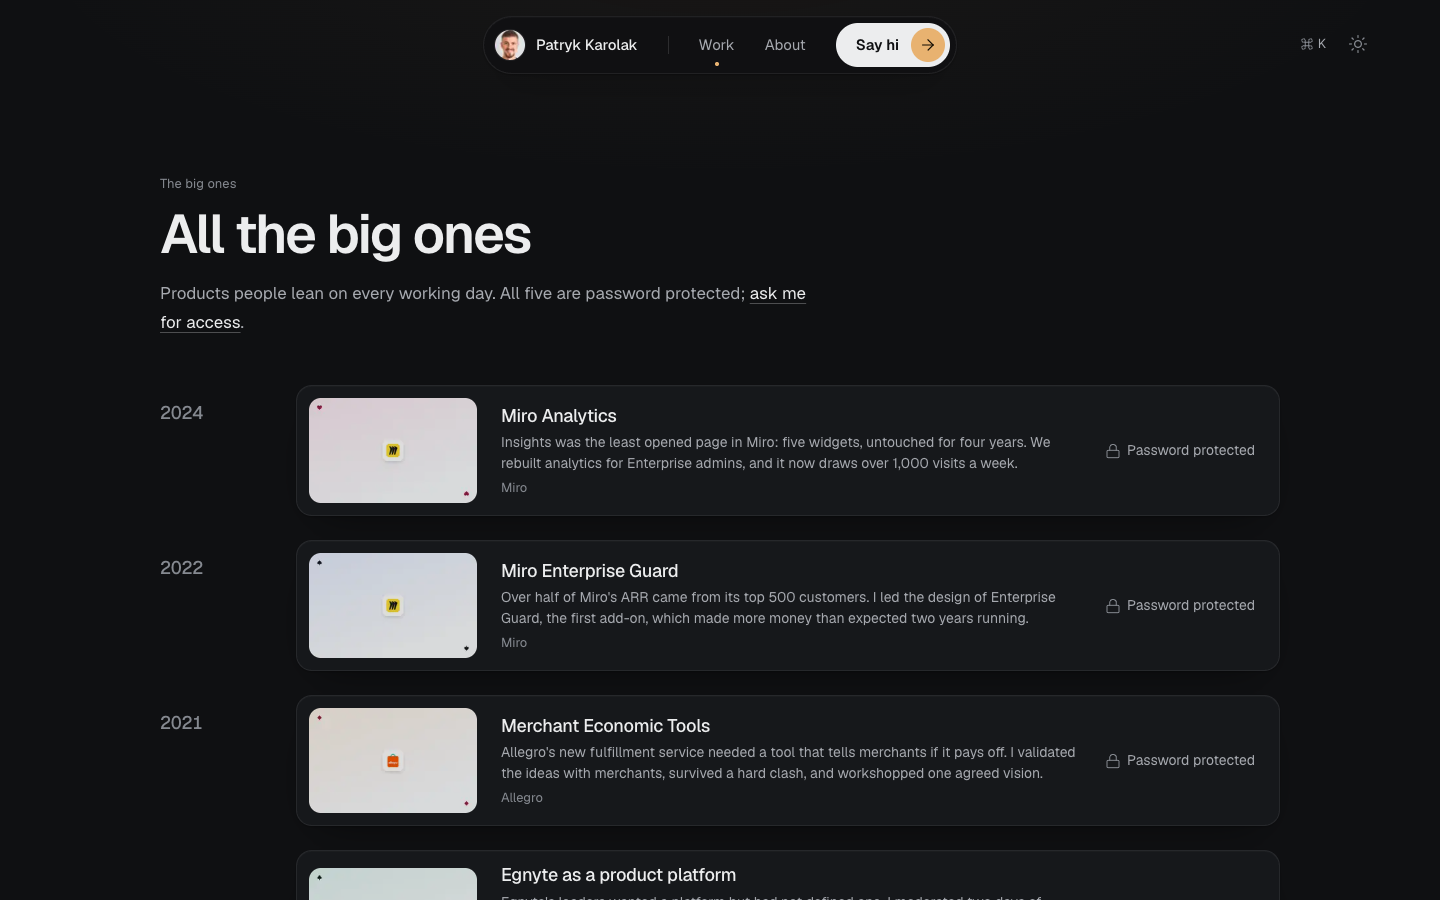
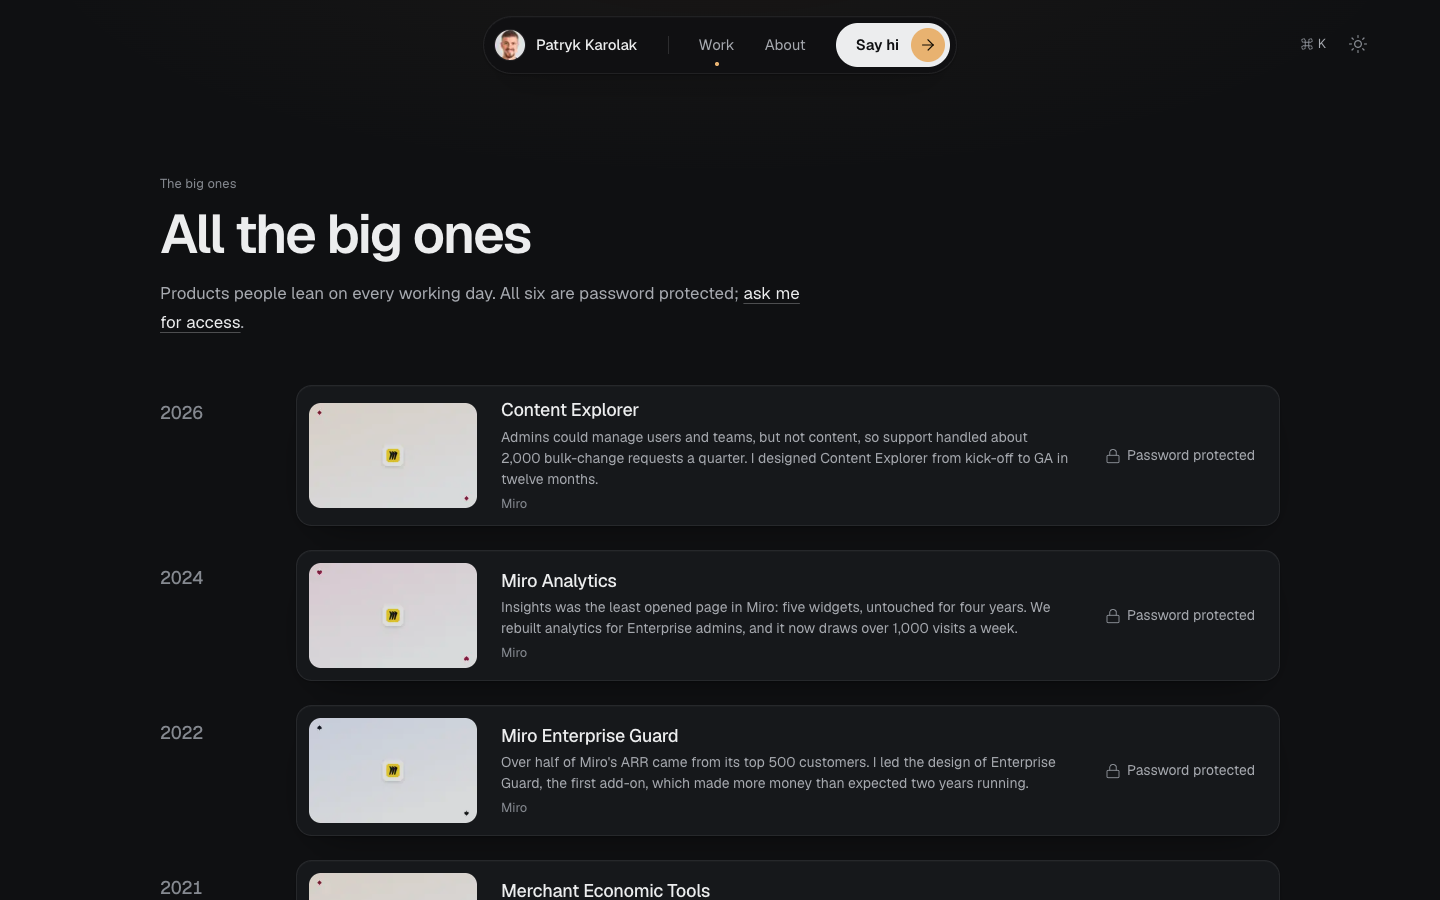
docs(adr): 0035 content explorer and prototype-first loop

diff --git a/docs/content-guide.md b/docs/content-guide.md
@@ -7,7 +7,7 @@ Everything a visitor reads lives in `content/`. The build validates it against [
 - `content/site.ts`: name, the content of every block (hero, hand, the five chapters, testimonials, letter, About story, education, journey, values, resume), links, contact copy, an optional footnote.
 - `content/kit.ts`: fixtures for `/kit`, the live content plus the blocks the site leaves empty. Only `/kit` reads it.
 - `content/projects/<slug>.ts`: one file per case.
-- `content/projects/index.ts`: the order, and a check for exactly five cases. The first `work.featured` cases lead on home; the work timeline groups them by `year`, newest first.
+- `content/projects/index.ts`: the order, and a check for exactly six cases. The first `work.featured` cases lead on home; the work timeline groups them by `year`, newest first.
 
 Wrap one word of a heading in `*asterisks*` to give it the single emphasis (for example `"I design the *systems* product teams build on."`). Use `\u00a0` (a non-breaking space) to keep short phrases together, like `0\u00a0to\u00a01`.
 
@@ -33,7 +33,7 @@ Every block is optional in practice: leave its field out, or its `items` empty, 
 | `educationTitle` | 4 words | The education heading ("School days"). |
 | `resume` | optional `{ src, label 4 }` | A PDF in `public/`, e.g. `/patryk-karolak-cv.pdf`. Shows a download button ("Grab the CV") on About. |
 | `journey.roles` | up to 8, summary 18, 2 points of 16 | "Where I've been". Omit `to` while the role is current. `cases` link up to 2 case slugs. |
-| `values` | up to 4, text 30 | "How I work". `evidence` is a case slug. |
+| `values` | up to 4, text 30, note 24 | "How I work". `evidence` is a case slug. `note` (optional) sits under the heading; it states the working loop (discover, prototype, validate, merge). |
 
 ## Writing a case
 
@@ -84,7 +84,7 @@ The case slides could not all be exported from Figma yet. Each placeholder under
 ## Reusing the template
 
 1. Edit `content/site.ts` (name, hero, about, links).
-2. Replace the five files in `content/projects/`, keeping the exports named in `index.ts`, or rename them there.
+2. Replace the six files in `content/projects/`, keeping the exports named in `index.ts`, or rename them there.
 3. Replace the images in `public/projects/`, `public/media/protected/` and `public/about/`.
 4. Set `access: "public"` on any case that should not be gated.
 5. `pnpm build`. Fix whatever the schema reports.

diff --git a/docs/decisions/0035-content-explorer-and-prototype-first.md b/docs/decisions/0035-content-explorer-and-prototype-first.md
@@ -1,0 +1,22 @@
+# 0035: Content Explorer leads, and the prototype-first loop is the stated way of working
+
+- **Status:** Accepted. Amends ADR 0034 (five cases become six).
+- **Date:** 2026-10-05
+- **Todo:** plan "Brag doc into portfolio"
+
+## Context
+
+The owner's brag document (15 Sep 2026) records work newer than the Figma decks: Content Explorer, the admin console's first content-management surface, from kick-off in Aug 2025 to GA on 25 Sep 2026. It also records a practice that runs through all of it: prototype apps on real data (about 2,250 commits across eight prototypes), `FilterPill` merged into Miro's design system, and two production PRs. The owner wants that way of working said loudly. After discovery, he builds the prototype app, validates it fast and merges it if it proves right. Figma is for fast, cheap UI exploration, and a fully interactive prototype is the deliverable for big projects.
+
+## Decision
+
+- **Six cases.** `content-explorer` is the sixth and comes first, so home shows Content Explorer, Miro Analytics and Enterprise Guard. `index.ts` checks for exactly six.
+- **The practice is not a case of its own.** It is told in How I work (`values.note` and the first two values), the short version, About and the journey. Its artifacts sit inside the cases they served: the working model and FilterPill in Content Explorer, and the staged prototype in Analytics.
+- **Numbers yes, names no.** Internal product numbers are allowed behind the password, framed as the product's results (for example, 199 Enterprise Guard accounts and about $10M ARR). Customer names, kudos and retro quotes are not.
+- **Unverified claims stay out:** the 82% usage figure, whose denominator is unclear. Use-case and AI analytics are "designed", never "shipped".
+- **`values.note`** (optional, 24 words) carries the loop under the How I work heading.
+
+## Consequences
+
+- To make room, How I work dropped "Test even what you love" and "Over-communicate, one on one". The four-value budget stays.
+- Content Explorer artifacts are placeholders until the owner exports them.

diff --git a/docs/progress.md b/docs/progress.md
@@ -10,7 +10,7 @@ Brag doc into portfolio (source: the owner's brag document, 15 Sep 2026):
 - [x] `content-explorer`: the sixth case, leading home
 - [x] `upgrade-cases`: Enterprise Guard accounts and lifecycle closure; Analytics AI chapter and staged prototype
 - [x] `how-i-work`: the prototype-first loop, said loudly
-- [ ] `docs-verify`
+- [x] `docs-verify`: ADR 0035, docs, checks, axe, leak test, shots
 
 - [x] `repo-setup`: branch `main`, `.gitignore`, origin, first push
 - [x] `docs-foundation`: AGENTS.md, CLAUDE.md, docs hub, plan, progress, brief, ADR 0000 + 0001
@@ -51,6 +51,21 @@ Real cases from Figma (file `fSTFAxmRFRkc2fQbRppfQ5`, "Patryk's Playground"):
 - [x] `verify-docs`: checks under both themes, axe, leak tests, shots, docs
 
 ---
+
+## 2026-10-05: checks and docs for the brag-doc update (`docs-verify`)
+
+- **Agent:** Cursor agent (Claude)
+- **Done:** Last todo of the plan "Brag doc into portfolio".
+  - **Docs:** ADR 0035 covers the six cases, the prototype-first loop, and allowing numbers but not customer names. It amends ADR 0034. The content guide covers the six cases and `values.note`. The plan, README and `AGENTS.md` now say six cases.
+  - **Checks:** lint, typecheck, `docs:check` and the build pass, and `theme:check` passes under Dusk and Blueprint.
+  - **Axe** (WCAG 2.2 AA plus best practice) is clean at 1440 and 390, light and dark, on `/`, `/about`, `/work`, a locked case and three unlocked cases, Content Explorer included.
+  - **Leak test:** nothing protected in public HTML, the sitemap or the six OG images.
+  - **`pnpm shots`** re-ran with no overflow.
+- **Owner to do:** export these and swap the placeholders, using new file names:
+  - Content Explorer: the four views, the working model and FilterPill.
+  - Analytics: the staged prototype (Skateboard, Bike, Ferrari).
+  - The Figma slides listed in the 2026-10-01 `visuals` entry.
+- **Next:** `qa` and `docs-final` from the checklist.
 
 ## 2026-10-05: prototype first, loud and clear (`how-i-work`)
 

diff --git a/docs/plan.md b/docs/plan.md
@@ -138,12 +138,13 @@ A zod schema in `content/schema.ts` fails the build if a case exceeds its readin
 
 **Site fields** (`content/site.ts`): name, title, one-line positioning, short bio, portrait, experience list (role, company, years), 3 working principles, links.
 
-**The 5 real cases** (since the "Real cases from Figma" plan, [ADR 0034](decisions/0034-real-cases.md)), all password protected, in home order:
-1. **Miro Analytics** (2024): research that won over internal pushback, 1,000+ weekly visits.
-2. **Miro Enterprise Guard** (2022): 0 to 1 add-on across five PMs and four teams, above revenue expectations.
-3. **Merchant Economic Tools** (Allegro, 2021): validation research, a stakeholder clash, workshops to one vision.
-4. **Egnyte as a product platform** (2020): workshops and an 18-point audit turned into shipped platform pieces.
-5. **Data Access Management** (Egnyte, 2020): Data Owners, from eight interviews to a planned MVP.
+**The 6 real cases** ([ADR 0034](decisions/0034-real-cases.md), [ADR 0035](decisions/0035-content-explorer-and-prototype-first.md)), all password protected, in home order:
+1. **Content Explorer** (Miro, 2026): the admin console's first content-management surface, kick-off to GA in twelve months, built on a prototype-first loop.
+2. **Miro Analytics** (2024): research that won over internal pushback, 1,000+ weekly visits.
+3. **Miro Enterprise Guard** (2022): 0 to 1 add-on across five PMs and four teams, above revenue expectations.
+4. **Merchant Economic Tools** (Allegro, 2021): validation research, a stakeholder clash, workshops to one vision.
+5. **Egnyte as a product platform** (2020): workshops and an 18-point audit turned into shipped platform pieces.
+6. **Data Access Management** (Egnyte, 2020): Data Owners, from eight interviews to a planned MVP.
 
 The original 4 placeholder cases (system adoption, workflow redesign, 0 to 1 bet, accessibility program) are retired.
 

diff --git a/AGENTS.md b/AGENTS.md
@@ -14,7 +14,7 @@ Instructions for any coding agent (Cursor, Claude Code, Codex, Gemini, others) w
 
 ## What this is
 
-Patryk Karolak's portfolio, built as a reusable template for a product designer. It showcases 5 real case studies at teaser depth: anyone gets the bottom line in about 30 seconds, and the full story is told in person. Case studies are password gated. The site is built with Next.js and hosted on Vercel. The audience is design leaders, hiring managers and cross-functional peers. The goal is to showcase senior-level strength through evidence, never through claims.
+Patryk Karolak's portfolio, built as a reusable template for a product designer. It showcases 6 real case studies at teaser depth: anyone gets the bottom line in about 30 seconds, and the full story is told in person. Case studies are password gated. The site is built with Next.js and hosted on Vercel. The audience is design leaders, hiring managers and cross-functional peers. The goal is to showcase senior-level strength through evidence, never through claims.
 
 ## Where we are
 

diff --git a/README.md b/README.md
@@ -1,6 +1,6 @@
 # Product Designer Portfolio
 
-A portfolio template for a product designer: five case studies at teaser depth, password-gated, built with Next.js 16 and deployed on Vercel. Anyone gets each case's bottom line in about 30 seconds; the full story is told in person.
+A portfolio template for a product designer: six case studies at teaser depth, password-gated, built with Next.js 16 and deployed on Vercel. Anyone gets each case's bottom line in about 30 seconds; the full story is told in person.
 
 **Status:** v1 with Patryk Karolak's real cases from Miro, Allegro and Egnyte, all password protected (ADR 0034). See [docs/progress.md](docs/progress.md).
 
@@ -14,7 +14,7 @@ cp .env.example .env.local   # set CASE_PASSWORD and AUTH_SECRET
 pnpm dev
 ```
 
-Open http://localhost:3000. All five cases are protected; unlock them with your `CASE_PASSWORD`.
+Open http://localhost:3000. All six cases are protected; unlock them with your `CASE_PASSWORD`.
 
 ## Make it yours
 
